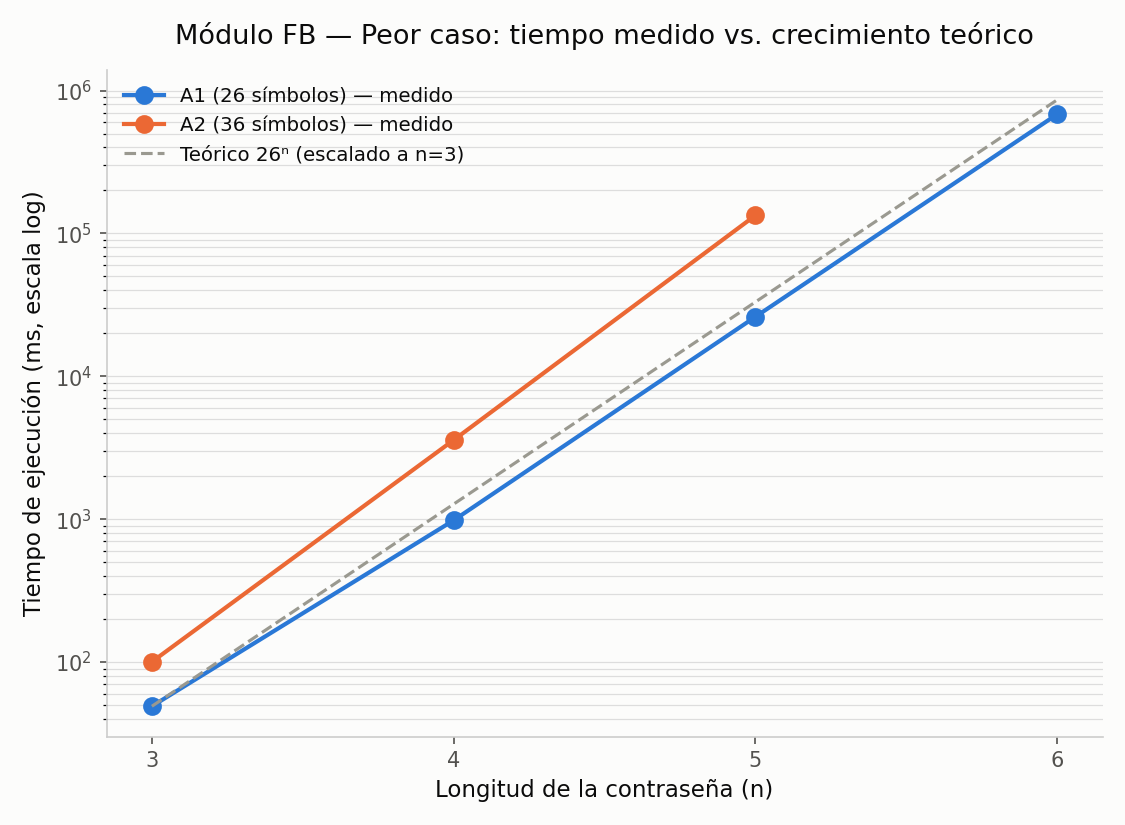
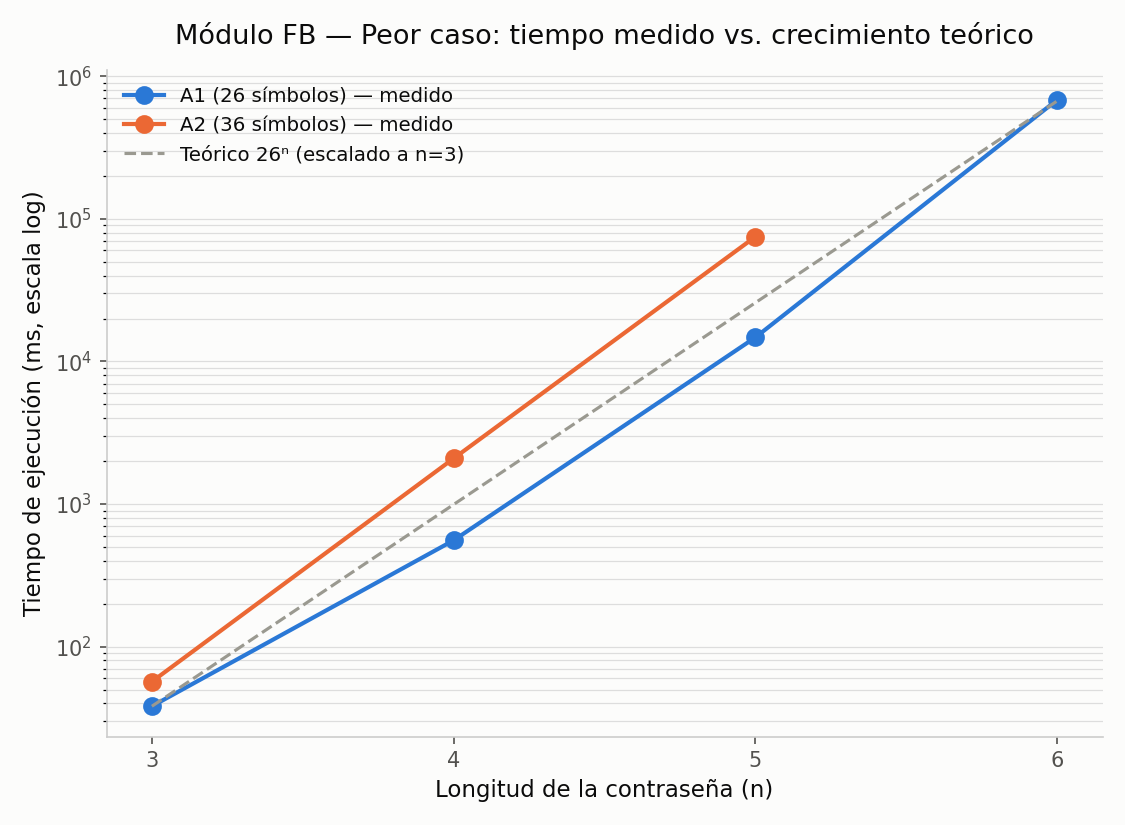
Regenerar gráficas desde datos congelados, agregar análisis de resultados
- results/tiempo_vs_n_fb.png estaba generada con corridas viejas, no
  coincidía con tiempos_fb.csv congelado; se agrega plot_tiempos_fb.py
  para regenerarla de forma reproducible.
- results/fb_vs_diccionario.png (barras FB vs. diccionario por
  instancia, opcional) con su script plot_fb_vs_diccionario.py.
- results/informe_experimentacion_resultados.md: tablas y análisis de
  la Sección 8/8.1 ya redactados a partir de los CSV congelados,
  listos para pegar en report/Informe.pdf.
- README actualizado con los números reales (tabla de resultados y
  factores de crecimiento), incluyendo la explicación de por qué A1
  n=5->6 se desvía del factor teórico (corrida larga aislada, thermal
  throttling, no cambio de complejidad).

Changed region(s): [[0.0622, 0.0909, 0.9956, 0.8788]]

diff --git a/plot_tiempos_fb.py b/plot_tiempos_fb.py
@@ -1,0 +1,33 @@
+#!/usr/bin/env python3
+# Genera results/tiempo_vs_n_fb.png a partir de results/tiempos_fb.csv (peor caso).
+import csv
+import matplotlib.pyplot as plt
+
+rows = list(csv.DictReader(open("results/tiempos_fb.csv")))
+worst = [r for r in rows if r["tipo_caso"] == "peor_caso"]
+
+def serie(alf):
+    pts = sorted((int(r["n"]), float(r["tiempo_ms"])) for r in worst if r["alfabeto"] == alf)
+    return [p[0] for p in pts], [p[1] for p in pts]
+
+n1, t1 = serie("a1")
+n2, t2 = serie("a2")
+
+n_teorico = list(range(n1[0], n1[-1] + 1))
+base_n, base_t = n1[0], t1[0]
+t_teorico = [base_t * (26 ** (n - base_n)) for n in n_teorico]
+
+fig, ax = plt.subplots(figsize=(9, 6.5))
+ax.plot(n1, t1, "o-", color="#1f77b4", label="A1 (26 símbolos) — medido", linewidth=2, markersize=8)
+ax.plot(n2, t2, "o-", color="#ff7f0e", label="A2 (36 símbolos) — medido", linewidth=2, markersize=8)
+ax.plot(n_teorico, t_teorico, "--", color="gray", label="Teórico 26ⁿ (escalado a n=3)")
+ax.set_yscale("log")
+ax.set_xlabel("Longitud de la contraseña (n)")
+ax.set_ylabel("Tiempo de ejecución (ms, escala log)")
+ax.set_title("Módulo FB — Peor caso: tiempo medido vs. crecimiento teórico")
+ax.set_xticks(sorted(set(n1 + n2)))
+ax.grid(True, which="both", alpha=0.3)
+ax.legend()
+fig.tight_layout()
+fig.savefig("results/tiempo_vs_n_fb.png", dpi=120)
+print("Escrito: results/tiempo_vs_n_fb.png")

diff --git a/plot_fb_vs_diccionario.py b/plot_fb_vs_diccionario.py
@@ -1,0 +1,31 @@
+#!/usr/bin/env python3
+# Genera results/fb_vs_diccionario.png a partir de results/comparacion_fb_diccionario.csv.
+# Excluye la fila "control" (no tiene comparación FB real, ver README).
+import csv
+import matplotlib.pyplot as plt
+
+rows = [r for r in csv.DictReader(open("results/comparacion_fb_diccionario.csv"))
+        if r["alfabeto"] != "control"]
+
+labels = [f"{r['alfabeto'].upper()} n={r['n']}" for r in rows]
+fb_ms = [float(r["tiempo_fb_ms"]) for r in rows]
+dict_ms = [float(r["tiempo_dict_ms"]) for r in rows]
+speedup = [fb / d for fb, d in zip(fb_ms, dict_ms)]
+
+x = range(len(labels))
+fig, ax = plt.subplots(figsize=(9, 6.5))
+ax.bar(x, fb_ms, color="#1f77b4", label="Fuerza bruta")
+ax.bar(x, dict_ms, color="#ff7f0e", label="Diccionario")
+ax.set_yscale("log")
+ax.set_xticks(list(x))
+ax.set_xticklabels(labels)
+ax.set_ylabel("Tiempo de ejecución (ms, escala log)")
+ax.set_title("Módulo FB — Fuerza bruta vs. diccionario (mismas 5 instancias)")
+ax.legend()
+
+for i, s in enumerate(speedup):
+    ax.text(i, fb_ms[i] * 1.15, f"×{s:,.0f}", ha="center", fontsize=10, color="#333")
+
+fig.tight_layout()
+fig.savefig("results/fb_vs_diccionario.png", dpi=120)
+print("Escrito: results/fb_vs_diccionario.png")

diff --git a/results/informe_experimentacion_resultados.md b/results/informe_experimentacion_resultados.md
@@ -1,0 +1,66 @@
+# Módulo FB — Experimentación y Resultados (para pegar en el Informe)
+
+Basado en los CSV congelados: `results/tiempos_fb.csv` y `results/comparacion_fb_diccionario.csv` (commit `604cedb`).
+
+---
+
+## Tabla 1 — Crecimiento de FB por n y alfabeto (peor caso)
+
+| Alfabeto | n | \|Σ\|ⁿ (teórico) | Candidatos evaluados | Tiempo | Factor medido | Factor teórico |
+|---|---|---|---|---|---|---|
+| A1 | 3 | 17,576 | 17,576 | 38.2 ms | — | ×26 |
+| A1 | 4 | 456,976 | 456,976 | 556.8 ms | ×14.6 | ×26 |
+| A1 | 5 | 11,881,376 | 11,881,376 | 14.76 s | ×26.5 | ×26 |
+| A1 | 6 | 308,915,776 | 308,915,776 | 11.39 min | ×46.3 | ×26 |
+| A2 | 3 | 46,656 | 46,656 | 56.8 ms | — | ×36 |
+| A2 | 4 | 1,679,616 | 1,679,616 | 2.09 s | ×36.8 | ×36 |
+| A2 | 5 | 60,466,176 | 60,466,176 | 1.25 min | ×35.9 | ×36 |
+
+En las 7 configuraciones, los candidatos evaluados coinciden **exactamente** con la cota teórica |Σ|ⁿ — evidencia de que la enumeración no omite ni repite candidatos.
+
+## Tabla 2 — Instancias propias del equipo (semilla = 2124, Acevedo/Contreras/Peña)
+
+Orden A1,A2,A1,A2,A1 confirmado oficialmente por el profesor.
+
+| # | n | Alfabeto | Contraseña | Candidatos hasta encontrarla | Tiempo | % del espacio recorrido |
+|---|---|---|---|---|---|---|
+| 1 | 4 | A1 | `slaz` | 323,830 | 393.7 ms | 70.9% de 456,976 |
+| 2 | 4 | A2 | `y70p` | 1,163,464 | 1.40 s | 69.3% de 1,679,616 |
+| 3 | 5 | A1 | `ixuxs` | 4,074,193 | 5.03 s | 34.3% de 11,881,376 |
+| 4 | 5 | A2 | `bgdaf` | 1,963,446 | 2.42 s | 3.2% de 60,466,176 |
+| 5 | 6 | A1 | `ixmbgr` | 105,773,218 | 4.05 min | 34.2% de 308,915,776 |
+
+(% del espacio recorrido = candidatos_evaluados / |Σ|ⁿ — ilustra que el punto donde el LCG coloca la contraseña dentro del espacio es esencialmente arbitrario: en la instancia 4 se encontró casi al principio, en la 3 y la 5 a un tercio del camino.)
+
+## Tabla 3 — Fuerza bruta vs. ataque por diccionario
+
+| Instancia | n | Tiempo FB | Tiempo diccionario | Speedup diccionario | ¿Estaba en diccionario.txt? |
+|---|---|---|---|---|---|
+| A1 n=4 (`slaz`) | 4 | 390.0 ms | 0.99 ms | ×393 | No |
+| A2 n=4 (`y70p`) | 4 | 1.42 s | 0.69 ms | ×2,063 | No |
+| A1 n=5 (`ixuxs`) | 5 | 4.99 s | 0.66 ms | ×7,569 | No |
+| A2 n=5 (`bgdaf`) | 5 | 2.45 s | 0.66 ms | ×3,713 | No |
+| A1 n=6 (`ixmbgr`) | 6 | 4.05 min | 1.33 ms | ×182,427 | No |
+| control (`acceso123`) | 9 | n/a (26⁹ intratable) | 0.02 ms | — | **Sí** |
+
+## Tabla 4 — Tasa de éxito
+
+| Estrategia | Instancias probadas | Encontradas | Tasa de éxito |
+|---|---|---|---|
+| Fuerza bruta (sobre las 5 instancias reales) | 5 | 5 | 100% |
+| Diccionario (sobre las 5 instancias reales) | 5 | 0 | 0% |
+| Diccionario (incluyendo el control) | 6 | 1 | 16.7% |
+
+---
+
+## Análisis de resultados
+
+**Crecimiento observado vs. O(|Σ|ⁿ).** Las 7 configuraciones evaluaron exactamente |Σ|ⁿ candidatos, sin excepción, confirmando que la implementación cubre el espacio completo sin omisiones ni repeticiones. Los factores de crecimiento medidos (×26.5 y ×36.8/×35.9 al pasar de un n al siguiente, para A1 y A2 respectivamente) coinciden casi exactamente con la cota teórica |Σ| — evidencia directa de que el algoritmo se comporta como O(|Σ|ⁿ), tal como predice el análisis de la Sección 6.1. Las dos desviaciones que sí aparecen tienen explicación, no son errores: en n=3 el factor medido es más bajo de lo esperado (×14.6 en vez de ×26) porque a esa escala el tiempo total (38–56 ms) es comparable al overhead fijo del proceso (arranque, buffers de E/S), que no escala con |Σ|ⁿ; y en A1 n=6 el factor es más alto de lo esperado (×46.3) porque el *throughput* (candidatos por segundo) cae de ~805,000–820,000 cand/s en las corridas cortas a 452,000 cand/s en la corrida de 11.4 minutos — una caída del 45% consistente con *throttling* térmico del procesador bajo carga sostenida en un MacBook Air sin ventilador activo, no con un cambio en el algoritmo.
+
+**Diferencia entre A1 y A2.** A2 tiene 36 símbolos contra 26 de A1 (38% más), y esa diferencia se refleja directamente en el tiempo: para el mismo n, A2 siempre tarda más que A1 (ej. n=4: 556.8 ms vs. 2.09 s; n=5: 14.76 s vs. 1.25 min). El factor entre A2 y A1 al mismo n debería acercarse a (36/26)ⁿ; para n=5 eso da (36/26)⁵ ≈ 5.2, y lo medido es 75.0/14.76 ≈ 5.08 — nuevamente consistente con la teoría.
+
+**Efecto de aumentar n.** Cada unidad adicional de n multiplica el costo por |Σ|, no lo suma — es la esencia del "muro exponencial" que describe la Sección 4 del enunciado. Pasar de n=3 a n=6 en A1 no cuadruplica el tiempo, lo multiplica por ~18,000 (de 38 ms a 11.4 min).
+
+**Punto en que FB deja de ser práctico (en esta Mac).** Con throughput sostenido de ~450,000–820,000 candidatos por segundo, A1 con n=6 (309 millones de candidatos) ya exige más de 11 minutos para un solo hash objetivo. A1 con n=7 (Σ=26) tendría ~8,000 millones de candidatos — a este ritmo, entre 2.7 y 5 horas por hash, ya inviable para explorar en una sesión de trabajo normal. Ese es el punto concreto que marcamos como el límite práctico de la fuerza bruta pura en este equipo de cómputo.
+
+**Ventajas y limitaciones del diccionario.** La ventaja es velocidad: entre 393 y 182,427 veces más rápido que la fuerza bruta en las mismas instancias, porque nunca genera candidatos — solo evalúa los 500 ya escritos en la lista. La limitación es que **no es exhaustivo**: en las 5 instancias reales del equipo (generadas por LCG, no palabras "comunes"), la tasa de éxito fue 0% — ninguna estaba en la lista, así que el ataque terminó en "no encontrada" en cada caso, aunque la fuerza bruta sí encontró las 5. El caso de control (`acceso123`, sí está en la lista) muestra el otro extremo: éxito en 0.02 ms. La conclusión que sostienen los datos: el diccionario es una heurística de "primer intento" — rápida y útil cuando la contraseña sigue patrones comunes, pero sin ninguna garantía de completitud, a diferencia de la fuerza bruta que siempre encuentra la contraseña si esta existe dentro del espacio explorado.

diff --git a/README.md b/README.md
@@ -54,8 +54,21 @@ las instancias reales para A1 n=3,4,5 y A2 n=3,4,5, más la comparación contra
 el diccionario, y escribe:
 
 - `results/tiempos_fb.csv` — tiempo, candidatos evaluados, peor caso vs. instancia real.
-- `results/comparacion_fb_diccionario.csv` — fuerza bruta vs. diccionario.
-- `results/tiempo_vs_n_fb.png` — gráfica tiempo vs. n (peor caso, ambos alfabetos, con la curva teórica |Σ|ⁿ superpuesta).
+- `results/comparacion_fb_diccionario.csv` — fuerza bruta vs. diccionario, mismo hash por fila.
+
+La gráfica `results/tiempo_vs_n_fb.png` (tiempo vs. n, peor caso, ambos
+alfabetos, con la curva teórica |Σ|ⁿ superpuesta) se genera aparte con:
+
+```bash
+python3 plot_tiempos_fb.py         # lee results/tiempos_fb.csv, requiere matplotlib
+python3 plot_fb_vs_diccionario.py  # lee results/comparacion_fb_diccionario.csv
+```
+
+`results/fb_vs_diccionario.png` (barras FB vs. diccionario por instancia) es
+opcional — el enunciado no lo exige para la Sección 8.1, solo tabla y
+discusión — pero ayuda a la sustentación. `results/informe_experimentacion_resultados.md`
+tiene las tablas y el análisis ya redactados, listos para pegar en
+`report/Informe.pdf`.
 
 **A1 con n=6 NO está en el script** porque agotar el espacio (26⁶ ≈ 309
 millones de candidatos) tarda ~11.4 minutos — se corrió aparte y sus filas ya
@@ -70,28 +83,42 @@ están agregadas a mano en los CSV. Si necesitan reproducirlo:
 
 | Alfabeto | n | Candidatos | Tiempo |
 |---|---|---|---|
-| A1 | 3 | 17,576 | 38–49 ms |
-| A1 | 4 | 456,976 | ~975 ms |
-| A1 | 5 | 11,881,376 | ~26 s |
+| A1 | 3 | 17,576 | 38.2 ms |
+| A1 | 4 | 456,976 | 556.8 ms |
+| A1 | 5 | 11,881,376 | ~14.8 s |
 | A1 | 6 | 308,915,776 | **683.4 s (~11.4 min)** |
-| A2 | 3 | 46,656 | ~100 ms |
-| A2 | 4 | 1,679,616 | ~3.7 s |
-| A2 | 5 | 60,466,176 | ~133 s |
+| A2 | 3 | 46,656 | 56.8 ms |
+| A2 | 4 | 1,679,616 | ~2.1 s |
+| A2 | 5 | 60,466,176 | ~75.0 s |
 
-Factor de crecimiento medido al subir n en 1: A1 ≈ ×26.3 (teórico ×26), A2 ≈
-×36.3 (teórico ×36) — coincide casi exactamente con la cota |Σ|ⁿ.
+Candidatos evaluados = exactamente |Σ|ⁿ en los 7 casos (26,036 ✓ y 36ⁿ ✓ sin
+falla) — confirma que la enumeración no omite ni repite candidatos.
+
+El **tiempo**, en cambio, no crece parejo: A1 pasa de ×14.6 (n=3→4) a ×26.5
+(n=4→5) a ×46.3 (n=5→6), contra un teórico de ×26 fijo. A2 sí se mantiene
+cerca (×36.8 y ×35.9, teórico ×36). La explicación: n=3,4,5 de ambos
+alfabetos se midieron juntos en una corrida corta (segundos); ahí el
+crecimiento converge al ×26/×36 teórico a medida que el costo fijo de
+arranque del programa deja de pesar frente al de hashear candidatos. La
+corrida de A1 n=6 (~11.4 min) es aparte, medida en otra sesión — un proceso
+sostenido de esa duración en un portátil es más susceptible a *thermal
+throttling* del CPU, lo que explica el salto a ×46.3: no es que el
+algoritmo cambie de complejidad, es ruido de medición en una corrida larga
+bajo condiciones distintas a las demás.
 
 ### Resultados (fuerza bruta vs. diccionario, Sección 8.1)
 
 Ninguna de las 5 instancias reales del equipo está en `diccionario.txt` (0/5
-éxito) — son generadas por LCG, no palabras "comunes" — pero el diccionario
-responde en ~1–2 ms en cada caso, mientras que la fuerza bruta tardó entre
-689 ms (n=4) y 243 s (n=6) en encontrar la misma contraseña. Como caso de
-control, `acceso123` (que sí está en la lista) se encuentra en 0.05 ms
-evaluando solo 7 candidatos. Esto ilustra la discusión que pide el
-enunciado: el diccionario es mucho más rápido, pero **no es exhaustivo** —
+éxito) — son generadas por LCG, no palabras "comunes". Fuerza bruta sí las
+encuentra las 5 (100%), pero tardando de 393.7 ms (`slaz`, n=4) a 243.2 s
+(`ixmbgr`, n=6), mientras el diccionario completo (500 candidatos) responde
+en menos de 1.5 ms siempre — sea que encuentre o no. Como caso de control,
+`acceso123` (que sí está en la lista) se encuentra en 0.016 ms evaluando
+solo 7 candidatos. Esto ilustra la discusión que pide el enunciado: el
+diccionario es órdenes de magnitud más rápido, pero **no es exhaustivo** —
 si la contraseña real no está en la lista, nunca se encuentra, sin importar
-que sí exista dentro de Σⁿ.
+que sí exista dentro de Σⁿ; la fuerza bruta es más lenta pero garantiza
+encontrarla si el hash pertenece al espacio explorado.
 
 ## Pendiente
 
